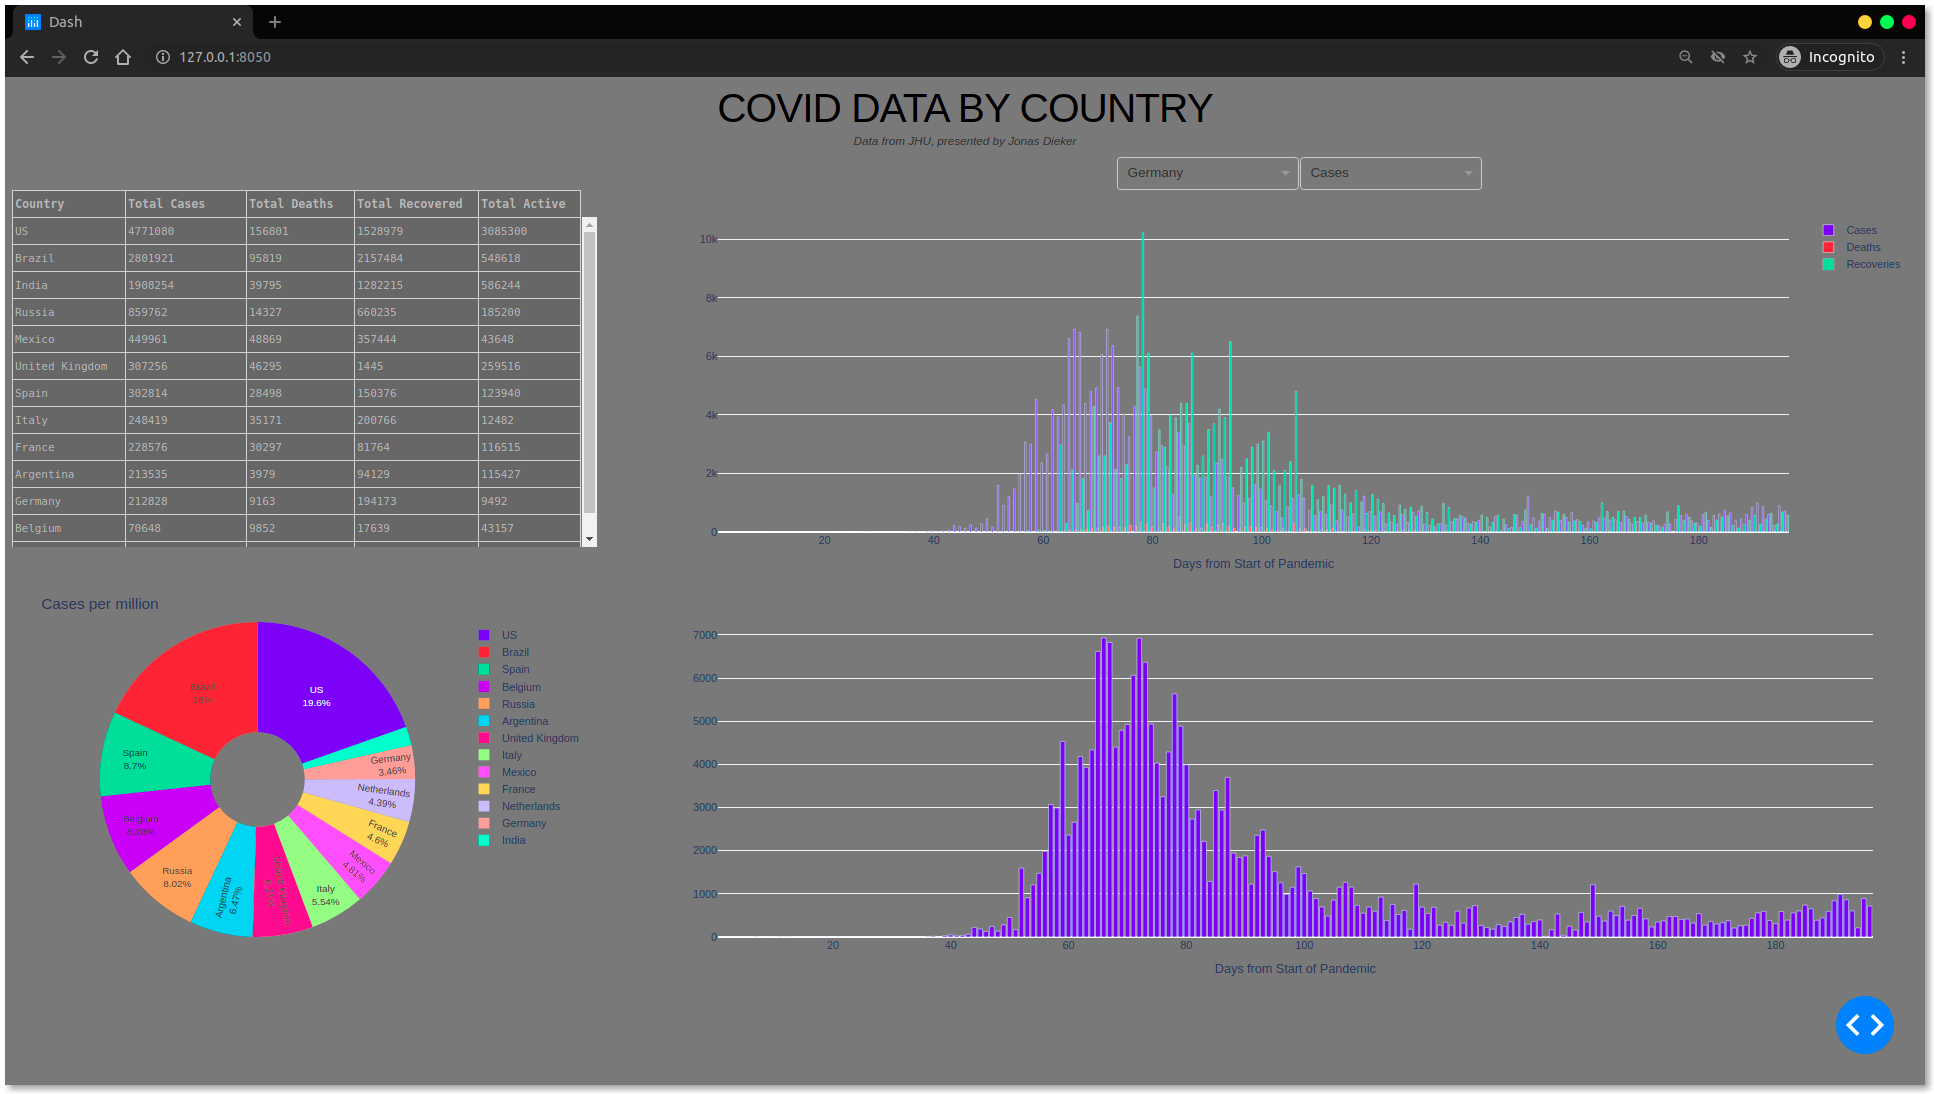
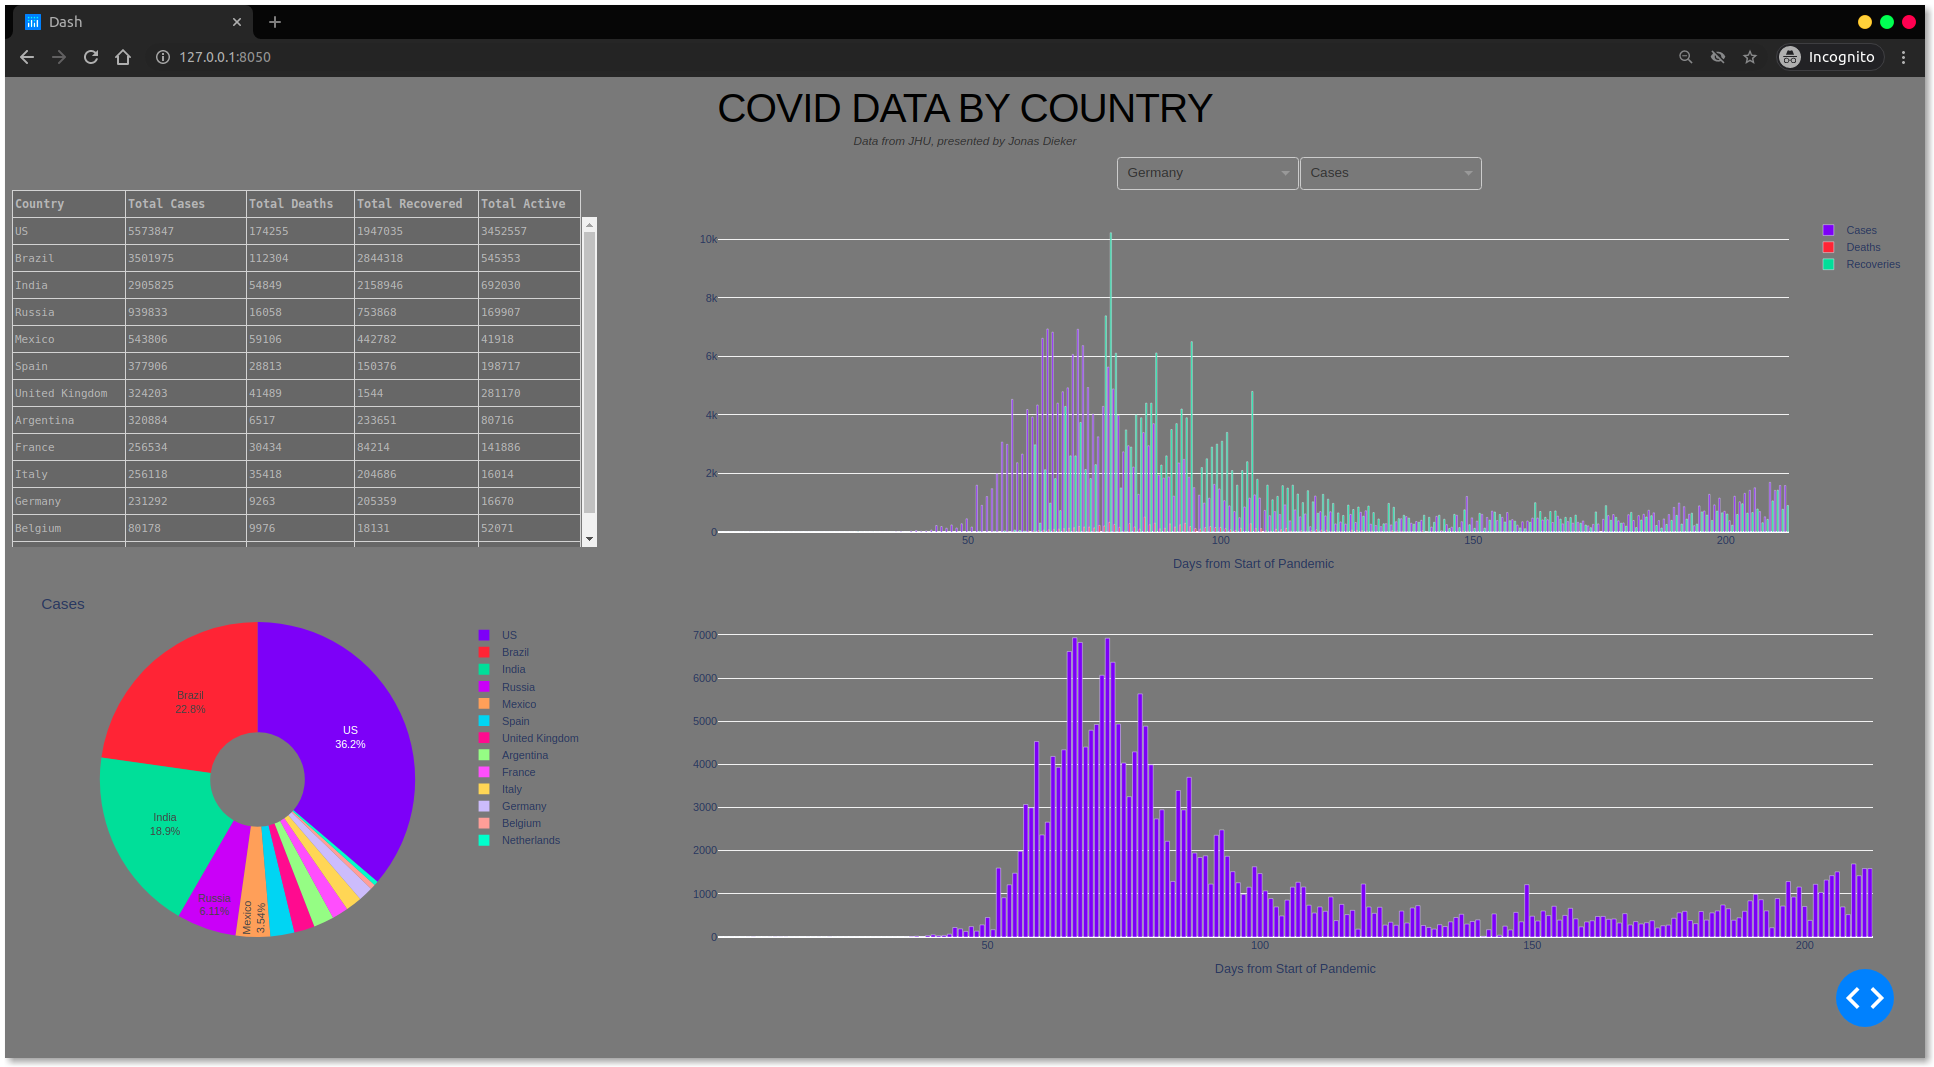
fixed pie chart

diff --git a/app.py b/app.py
@@ -1,3 +1,5 @@
+# corona-dash-a8fe8
+
 import dash
 import dash_table
 import pandas as pd
@@ -32,11 +34,11 @@ for i, country in enumerate(labels):
 	if len(cum_cases) > 1:
 		for j in range(len(cum_cases)):
 				value += cum_cases[j][-1]
-		values.append(round(value/population[i]))
+		values.append(round(value))    # /population[i]))
 	else:
-		values.append(round(cum_cases[0][-1]/population[i]))
+		values.append(round(cum_cases[0][-1])) #/population[i]))
 pie_chart.add_trace(go.Pie(labels=labels, values=values, hole=0.3))
-pie_chart.update_layout(title='Cases per million', uniformtext_minsize=10, uniformtext_mode='hide')
+pie_chart.update_layout(title='Cases', uniformtext_minsize=10, uniformtext_mode='hide')
 pie_chart.update_traces(textposition='inside', textinfo='percent+label')
 
 # test DataTable

diff --git a/README.md b/README.md
@@ -2,6 +2,6 @@
 
 *Using data from JHU's [Github](https://github.com/CSSEGISandData/COVID-19/tree/master/csse_covid_19_data/csse_covid_19_time_series)*
 
-Note: this is not written to be perfect but simply to test the dash library.
+*Note: this is not written to be perfect but simply to test the dash library.*
 
 ![dashboard](/assets/dashboard.png)
